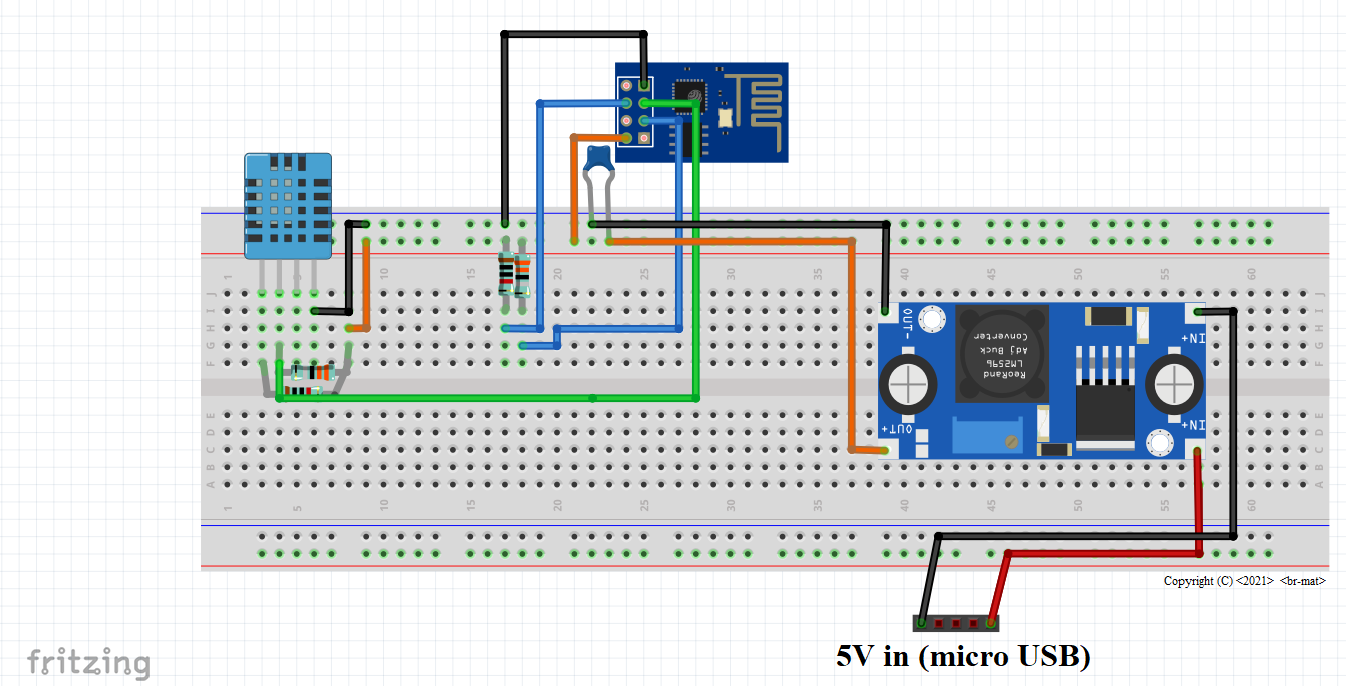
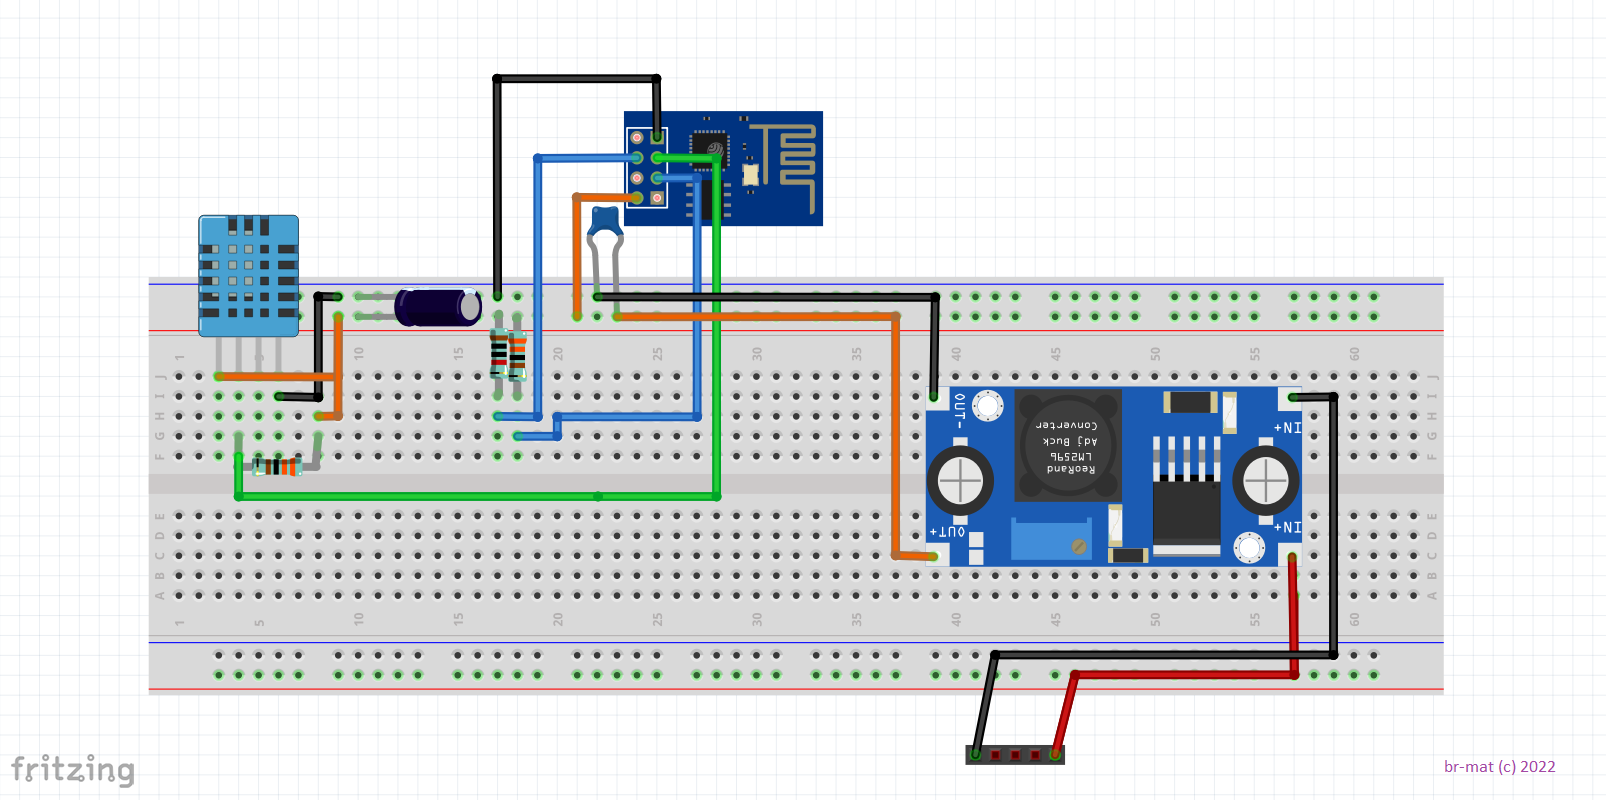
circuit updated
Corrected error in the circuit diagram

diff --git a/README.md b/README.md
@@ -56,7 +56,7 @@ The Buck-converter needs to bee adjusted with a Multimeter to *3.3V* depending o
 ![circuitraw](/docs/circuit_raw.png "circuit")
 
 <br>
-The prototype version i did on breadboards, but they are impractical. So I soldered the PCB layout on simple hole grid plates ( *3x7cm* ) and inserted a fuse on the positive incoming wire because of security reasons. If you are using a module for the *DHT-11* simply remove *R1* and connect the module directly to *VOUT* of the Buck-converter. <br>
+The prototype version i did on breadboards, but they are impractical. So I soldered the PCB layout on simple hole grid plates ( *3x7cm* ) and inserted a fuse on the positive incoming wire because of security reasons. <br>
 
 ![circuitpcb](/docs/circuit_pcb.png "circuit pcb layout")
 
